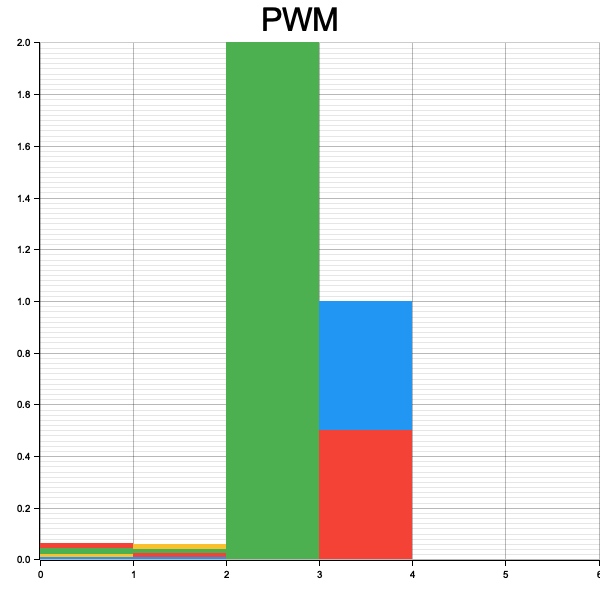
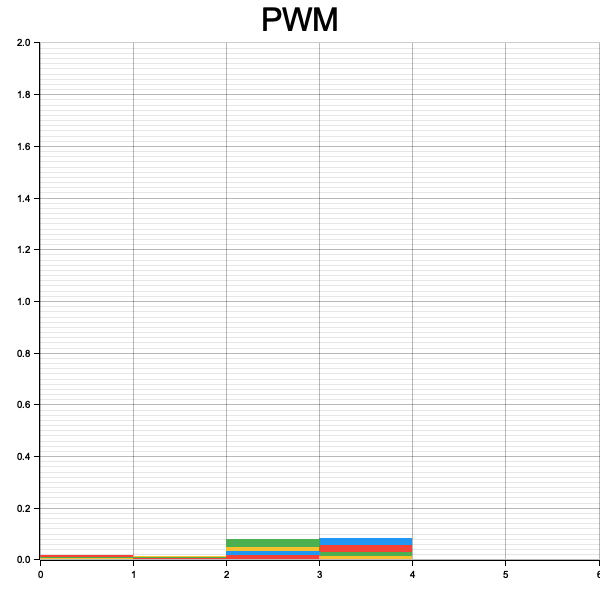
split and merges pass tests

Changed region(s): [[0.06, 0.06, 0.69, 0.93]]

diff --git a/src/base.rs b/src/base.rs
@@ -175,7 +175,7 @@ const HEIGHT_SDS: [f64; 3] = [1_f64, 2.0, 10.0];
 const NUM_MOVES: usize = 2*BASE_RATIO_SDS.len()*BASE_LINEAR_SDS.len()+HEIGHT_SDS.len()+2*SCALE_SDS.len()+9;
 const VARIANT_NUMS: [usize; 9] = [BASE_RATIO_SDS.len()*BASE_LINEAR_SDS.len(), BASE_RATIO_SDS.len()*BASE_LINEAR_SDS.len(), HEIGHT_SDS.len(), 6, 1, 1, SCALE_SDS.len(), SCALE_SDS.len(), 1]; 
 
-static PICK_MOVE: Lazy<WeightedAliasIndex<u32>> = Lazy::new(|| WeightedAliasIndex::<u32>::new(vec![20_u32, 20, 20, 20, 20, 20, 20, 20, 20]).expect("The weights should always be valid, with length equal to the length of VARIANT_NUMS"));
+static PICK_MOVE: Lazy<WeightedAliasIndex<u32>> = Lazy::new(|| WeightedAliasIndex::<u32>::new(vec![20_u32, 20, 20, 20, 20, 20, 20, 20, 1]).expect("The weights should always be valid, with length equal to the length of VARIANT_NUMS"));
 
 static SAMPLE_VARIANTS: Lazy<[Uniform<usize>; 9]> = Lazy::new(|| core::array::from_fn(|a| Uniform::new(0, VARIANT_NUMS[a])));
 
@@ -579,11 +579,7 @@ impl Base {
         //TODO: fix jacobian to be compatible with x0/1 = (x/2)*(1+/-p)
         let ln_jacobian = -((BASE_L-1) as f64)*LN_2+not_bests.iter().map(|&a| (-self[a]).ln()).sum::<f64>();
 
-        println!("ln jacobian split {ln_jacobian}");
-
         let ln_selection_density = -((BASE_L-1) as f64)*LN_2+scales.iter().map(|&a| SPLIT_BASE_DIST.ln_pdf(a)).sum::<f64>();
-
-        println!("ln selection density {ln_selection_density}");
 
         let base_0_choices: [bool; BASE_L-1] = core::array::from_fn(|_| rng.gen());
 
@@ -622,18 +618,14 @@ impl Base {
 
         let scales: [f64; BASE_L-1] = core::array::from_fn(|a| (self[not_bests[a]]-other_base[not_bests[a]]).abs()/sum_energy_penalties[a].abs());
 
-        println!("scales {:?}", scales);
 
         if sum_energy_penalties.iter().any(|a| *a < SCORE_THRESH) { return None; }
 
-        println!("sum energy penalties: {:?}", sum_energy_penalties);
 
         let ln_jacobian = ((BASE_L-1) as f64)*LN_2-sum_energy_penalties.iter().map(|&a| (-a).ln()).sum::<f64>();
-        println!("ln jacobian merge {ln_jacobian}");
 
         let ln_selection_density =  -((BASE_L-1) as f64)*LN_2+scales.iter().map(|&a| SPLIT_BASE_DIST.ln_pdf(a)).sum::<f64>();
 
-        println!("ln selection density {ln_selection_density}");
         let mut pre_base = Base::new([0.0; BASE_L]);
 
         for (i, &not_best) in not_bests.iter().enumerate(){
@@ -1511,7 +1503,6 @@ impl Motif {
         let height_a = self.peak_height*0.5+rand_height_split;
         let height_b = self.peak_height-height_a;
 
-        println!("split adding to {} {}", rand_height_split, NORMAL_DIST.ln_pdf(rand_height_split/height_sd)-height_sd.ln());
 
         (Motif::raw_pwm(pwm_a, height_a), Motif::raw_pwm(pwm_b, height_b), ln_jacob_minus_proposal)
 
@@ -1526,11 +1517,9 @@ impl Motif {
 
         let mut ln_jacob_plus_proposal = 0.0;
 
-        println!("to merge {:?} {:?} {:?} {:?}", self.best_motif(), self, motif_b.best_motif(), motif_b);
 
         let Some(fused_pwm) = (0..self.len()).map(|i| {
             let Some((fused_base, add_to)) = self.pwm[i].merge_bases(&motif_b.pwm[i]) else { return None; };
-            println!("adding {i} {add_to}");
             ln_jacob_plus_proposal += add_to;
             Some(fused_base)
         }).collect::<Option<Vec<Base>>>() else {return None;};
@@ -1544,7 +1533,6 @@ impl Motif {
 
         ln_jacob_plus_proposal += NORMAL_DIST.ln_pdf(rand_split_height/height_sd)-height_sd.ln();
       
-        println!("adding to {} {}",rand_split_height, NORMAL_DIST.ln_pdf(rand_split_height/height_sd)-height_sd.ln());
 
         let merged = Motif::raw_pwm(fused_pwm, new_height);
 
@@ -2065,14 +2053,12 @@ impl Motif {
         if off_center > 0 { 
             for i in 0..off_center {
                 //TODO: change this to get_unchecked if there's a performance benefit
-                println!("off {off_center} {i}");
                 distance += pwm_long[i].dist_sq(None);
             }
         }
         
         if (short_len+off_center) < long_len {
             for i in (short_len+off_center)..long_len {
-                println!("off end {off_center} {i}");
                 distance += pwm_long[i].dist_sq(None);
             }
         }
@@ -2082,7 +2068,6 @@ impl Motif {
             let b1 = &pwm_short[ind]; 
             let b2 = &pwm_long[off_center+ind];
           
-            println!("b1 {:?} b2 {:?}", b1, b2);
 
             distance += b1.dist_sq(Some(b2));
             
@@ -2135,8 +2120,6 @@ impl Motif {
             
             new_pwm[off_center+ind] = b;
 
-            println!("sum b1 {:?} b2 {:?}", b1, b2);
-            println!("s {ind} sum {s}");
             correction += s;
         }
 
@@ -2189,8 +2172,6 @@ impl Motif {
             let (b,s) = b2.subtract_bases_and_lb_max(&b1);
         
             new_pwm[off_center+ind] = b;
-            println!("diff b1 {:?} b2 {:?}", b1, b2);
-            println!("s {ind} diff {s}");
             correction += s;
 
         }
@@ -2909,7 +2890,6 @@ impl<'a> MotifSet<'a> {
 
         let Some((merge_mot, ln_merge_jacobian_plus_pick_prob)) = self.set[merge_1].merge_motifs(&self.set[merge_2], HEIGHT_SPLIT_SD) else {return None;} ;
 
-        println!("merging {:?} {:?} {} {} {}", merge_mot.best_motif(), merge_mot, merge_mot.pwm_prior(self.data_ref.data().seq()), merge_mot.height_prior(), ln_merge_jacobian_plus_pick_prob);
         let mut new_set = self.derive_set();
 
         let (replace, delete) = if merge_1 < merge_2 { (merge_1, merge_2) } else { (merge_2, merge_1)};
@@ -2918,7 +2898,6 @@ impl<'a> MotifSet<'a> {
 
         let ln_post = new_set.remove_motif(delete);
 
-        println!("ln post {} ln like {} ln priors {}", new_set.ln_posterior(), new_set.ln_likelihood(), new_set.ln_prior());
 
         Some((new_set, ln_post+ln_merge_jacobian_plus_pick_prob))
     }
@@ -5283,18 +5262,19 @@ mod tester{
         assert!(d_unalt_rev.0.abs()-(newmot.pwm[0].dist_sq(None)+newmot.pwm[newmot.len()-1].dist_sq(None)).sqrt() < 1e-9);
         assert!(d_unalt_rev.1);
 
-        let r = Motif::from_motif(vec![Bp::A, Bp::G, Bp::G, Bp::T, Bp::A, Bp::G, Bp::G, Bp::T], &mut rng);
+        //let r = Motif::from_motif(vec![Bp::A, Bp::G, Bp::G, Bp::T, Bp::A, Bp::G, Bp::G, Bp::T], &mut rng);
 
-        let (a, c) = m.sum_motifs(&r);
+        let (r, a, c) = m.split_motif(HEIGHT_SPLIT_SD, &mut rng); 
 
-        let (b, c_star) = a.diff_motifs(&r);
+
+        let Some((b, c_star)) = a.merge_motifs(&r, HEIGHT_SPLIT_SD) else {panic!("not reversing a split");};
 
         println!("c {c} c_star {c_star}");
 
         println!("m {:?} b {:?}", m, b);
 
         println!("{:?}", b.distance_function(&m));
-        assert!((c-c_star).abs() < 1e-9);
+        assert!((c+c_star).abs() < 1e-9);
         assert!(b.distance_function(&m).0 < 1e-9);
         assert!(!b.distance_function(&m).1);
 
@@ -6254,6 +6234,8 @@ mod tester{
                                 .map(|(a,b)| (a.pwm.len() == b.pwm.len()) || (a.pwm.len() == b.pwm.len()-1))
                                 .fold(true, |acc, y| acc && y), "contract messed up contracting" );
                     },
+                    4 => assert!(step_set.set.len() == motif_set.set.len()+1, "split not birthing"),
+                    5 => assert!(step_set.set.len() == motif_set.set.len()-1, "merge not deathing"),
                     _ => assert!(false, "Picking an impossible move!"),
                 };
             }
